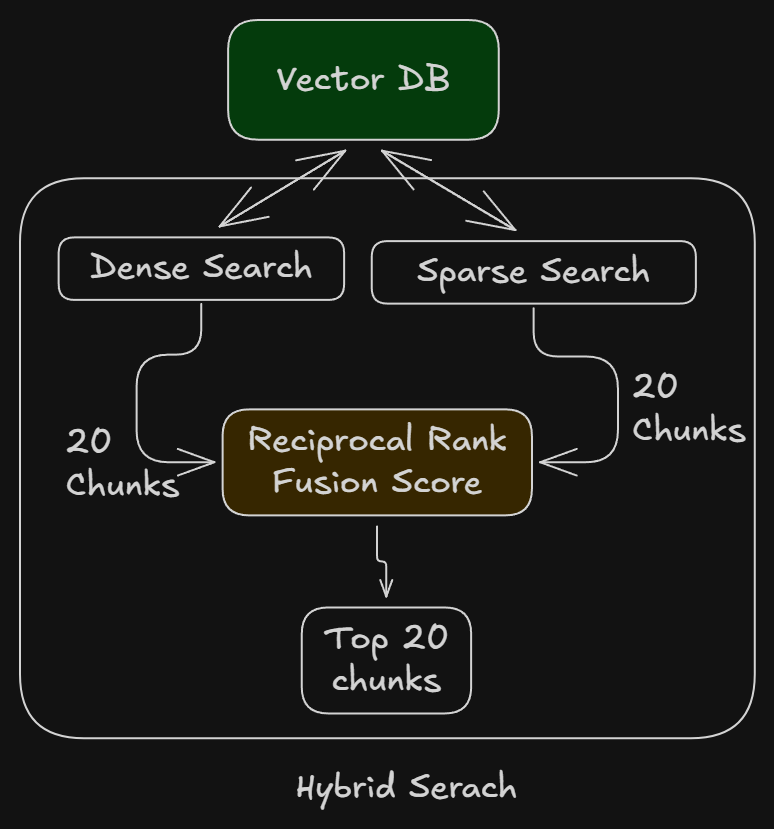
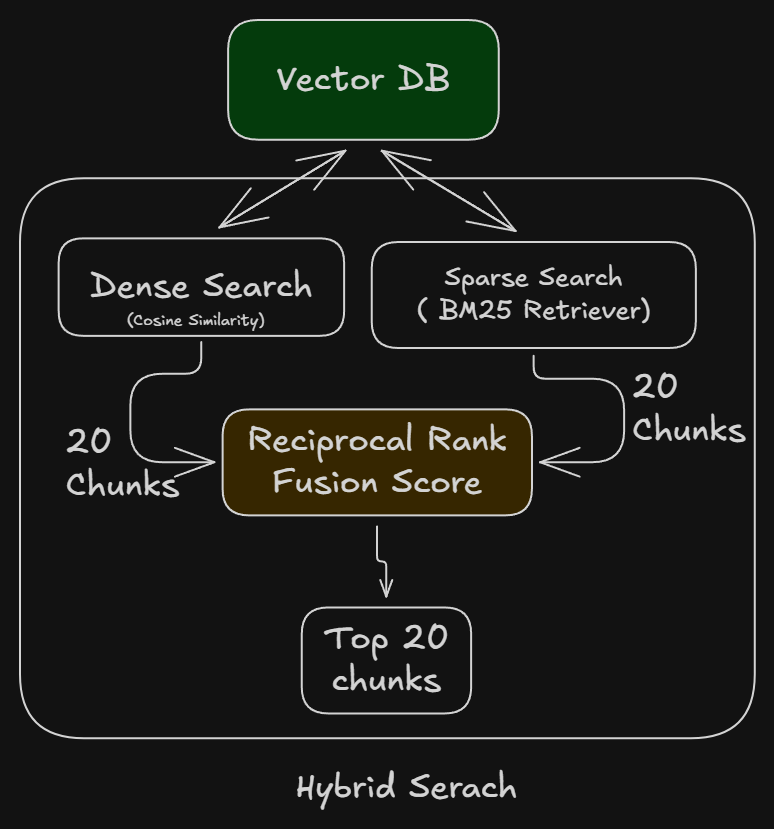
updated docs

diff --git a/backend/src/service/retrival.service.ts b/backend/src/service/retrival.service.ts
@@ -21,7 +21,7 @@ export const retriveAndRerank=async(query:string,pathIds:string[]):Promise<Hybri
     sparseSearchResult,
     20, // need to get 20 resuklt
   );
-  console.log("[Hybrid Search Res] ",hybridSearchRes)
+  // console.log("[Hybrid Search Res] ",hybridSearchRes)
   //  feed those 20 res to a rertanker along with our query anbd then it will send the top 5 similar chunks 
  
   let documents=hybridSearchRes.map((res)=>{
